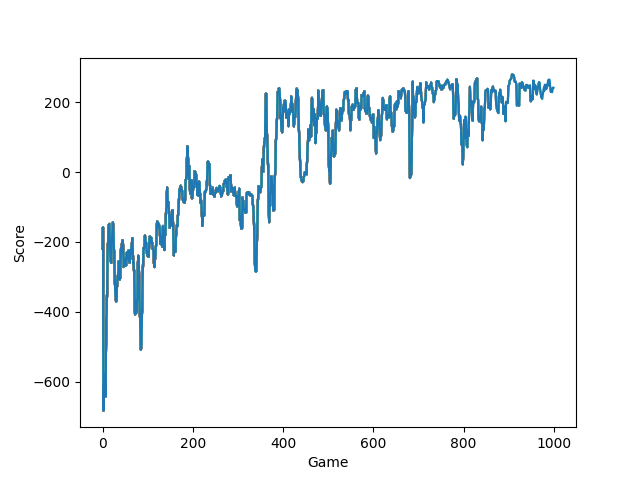
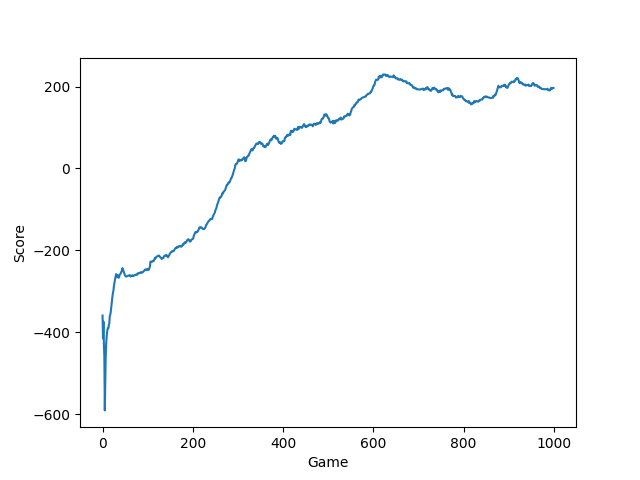
Optimize exploration policy

diff --git a/ddpg/agent.py b/ddpg/agent.py
@@ -36,7 +36,7 @@ class Agent(object):
 
         self.update_network_parameters(tau=1)
 
-    def choose_action(self, observation, is_training):    
+    def choose_action(self, observation, is_training, expl_prob=0):
         self.actor.eval()
         observation = T.tensor(observation, dtype=T.float).to(self.actor.device)
         mu = self.actor.forward(observation).to(self.actor.device)
@@ -44,15 +44,8 @@ class Agent(object):
         # Epsilon-greedy exploration
         if (is_training == True):
             epsilon = np.random.rand()
-            if (self.memory.mem_cntr < 100000):
-                if (epsilon < 0.5):
-                    mu += T.tensor(self.noise(), dtype=T.float).to(self.actor.device)
-            elif (self.memory.mem_cntr < 300000):
-                if (epsilon < 0.25):
-                    mu += T.tensor(self.noise(), dtype=T.float).to(self.actor.device)
-            else:
-                if (epsilon < 0.1):
-                    mu += T.tensor(self.noise(), dtype=T.float).to(self.actor.device)     
+            if (epsilon < expl_prob):
+                mu += T.tensor(self.noise(), dtype=T.float).to(self.actor.device)
 
         self.actor.train()
         return mu.cpu().detach().numpy()

diff --git a/main_demo.py b/main_demo.py
@@ -23,7 +23,7 @@ for i in range(1, num_episode+1):
     truncated = False
     score = 0
     while (not terminated and not truncated):
-        action = agent.choose_action(observation, is_training)
+        action = agent.choose_action(observation, is_training, (num_episode-i)/num_episode)
         new_state, reward, terminated, truncated, info = env.step(action)
         if (not truncated):
             agent.remember(observation, action, reward, new_state, int(terminated))
@@ -42,7 +42,7 @@ filename = 'training_result.png'
 N = len(score_history)
 running_avg = np.empty(N)
 for t in range(N):
-    running_avg[t] = np.mean(score_history[max(0, t-5):(t+1)])
+    running_avg[t] = np.mean(score_history[max(0, t-100):(t+1)])
 x = [i for i in range(N)]
 plt.ylabel('Score')       
 plt.xlabel('Game')                     

diff --git a/main.py b/main.py
@@ -21,7 +21,7 @@ for i in range(1, num_episode+1):
     truncated = False
     score = 0
     while (not terminated and not truncated):
-        action = agent.choose_action(observation, is_training)
+        action = agent.choose_action(observation, is_training, (num_episode-i)/num_episode)
         new_state, reward, terminated, truncated, info = env.step(action)
         if (not truncated):
             agent.remember(observation, action, reward, new_state, int(terminated))
